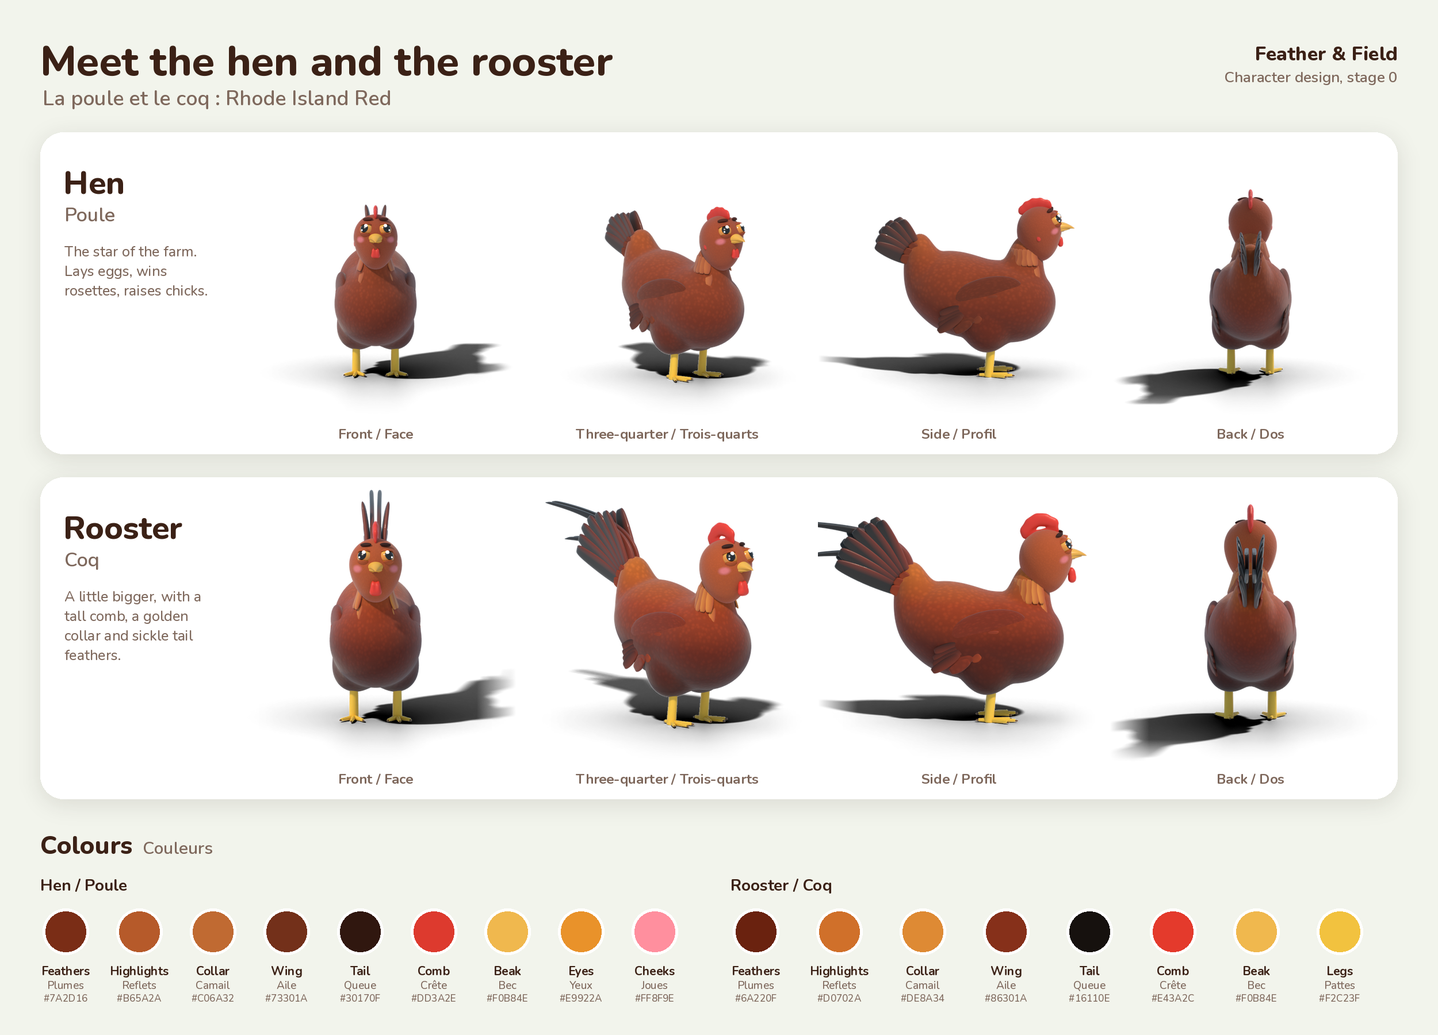
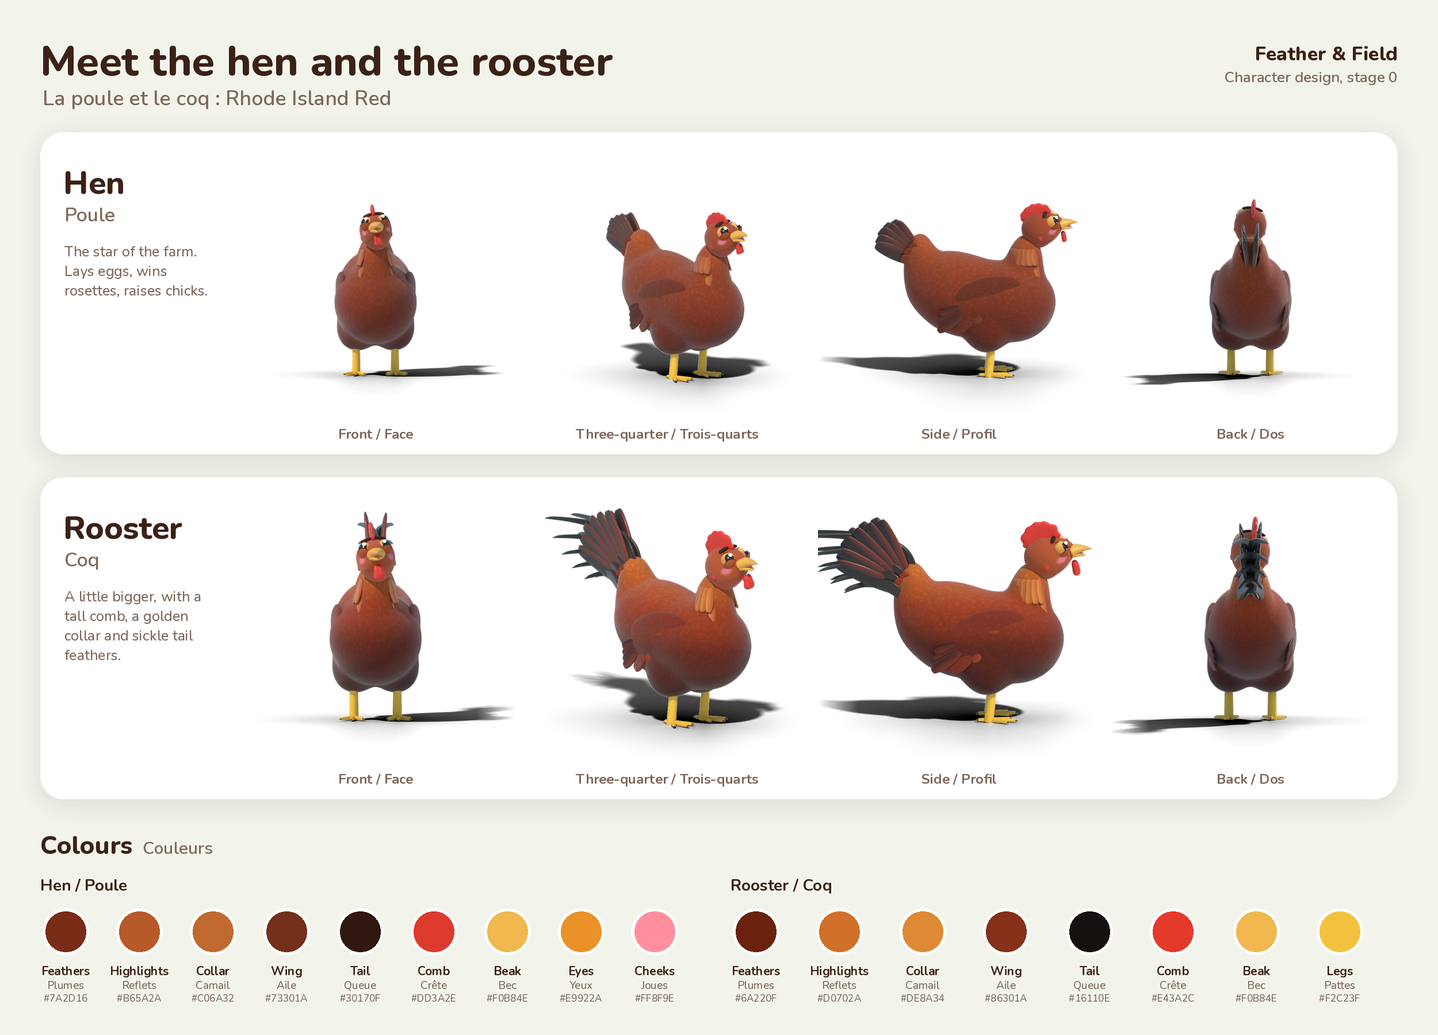
Character design v2: sculpted head, solid comb, sickle fountain, smiling and proud expressions
Claude-Session: https://claude.ai/code/session_01XWN3p1RfVs24ds11UTtWWk

diff --git a/stylized/character/hen_char.py b/stylized/character/hen_char.py
@@ -20,17 +20,17 @@ PAL = {
 # pupil = pupil size, eye = eye size, brow = brow slant (+ worried/sad, - cross), brow_h = brow height, beak = opening (radians),
 # blush 0..1, comb = flop 0..1, head = (roll, pitch, yaw) degrees (+pitch looks down), fluff = body puff, fx = little effect
 EXPR = {
-    'happy':     dict(up=0.55, lo=-0.62, tilt=-4, look=(0.05, 0.05), brow=0.05, beak=0.1, blush=0.6, head=(0, -4, 0)),
+    'happy':     dict(up=0.95, lo=-0.68, smile=0.5, tilt=0, look=(0.05, 0.05), pupil=1.0, brow=0.0, brow_h=0.55, beak=0.4, blush=0.7, head=(9, -10, 0), fx='notes'),
     'joyful':    dict(closed='happy', brow=0.15, brow_h=0.35, beak=0.55, blush=0.95, head=(-8, -16, 0), fx='sparkles'),
     'hungry':    dict(up=0.62, lo=-0.85, tilt=-12, look=(0.3, 0.62), brow=0.5, brow_h=0.35, beak=0.32, blush=0.0, head=(4, -14, -4), fx='thought'),
     'sleepy':    dict(closed='sleepy', brow=0.1, brow_h=-0.25, beak=0.0, blush=0.3, comb=0.45, head=(16, 10, 0), fx='zzz'),
     'surprised': dict(up=1.0, lo=-1.0, eye=1.15, pupil=0.72, brow=0.0, brow_h=0.85, beak=0.48, blush=0.0, head=(0, -12, 0), fluff=1.04, fx='exclaim'),
     'sad':       dict(up=0.3, lo=-0.75, tilt=-26, look=(0.1, -0.45), brow=0.7, brow_h=0.1, beak=0.0, blush=0.0, comb=0.85, head=(-6, 14, 0), fx='tear'),
     'grumpy':    dict(up=0.12, lo=-0.42, tilt=28, look=(0.15, 0.0), brow=-0.75, brow_h=-0.25, beak=0.06, blush=0.0, head=(0, 6, 8), fx='puffs'),
-    'mischief':  dict(up=0.42, lo=-0.6, tilt=10, look=(0.35, 0.1), wink=-1, brow_side={-1: (0.1, 0.15), 1: (-0.25, 0.8)}, beak=0.26, tongue_out=True,
+    'mischief':  dict(up=0.42, lo=-0.62, smile=0.3, tilt=10, look=(0.35, 0.1), wink=-1, brow_side={-1: (0.1, 0.15), 1: (-0.25, 0.8)}, beak=0.26, tongue_out=True,
                       blush=0.4, head=(10, -6, 10), fx='wink'),
-    'proud':     dict(up=0.34, lo=-0.5, tilt=-4, look=(0.25, -0.6), brow=-0.1, brow_h=0.35, beak=0.0, blush=0.6, head=(0, -14, 0), fluff=1.06, fx='chicks'),
-    'love':      dict(up=0.78, lo=-0.7, tilt=-6, look=(0.05, 0.1), hearts=True, brow=0.25, brow_h=0.3, beak=0.12, blush=1.0, head=(-12, -6, 0), fx='hearts'),
+    'proud':     dict(closed='content', brow=-0.1, brow_h=0.6, beak=0.0, blush=0.65, head=(-4, -24, 0), fluff=1.08, fx='chicks'),
+    'love':      dict(up=0.8, lo=-0.72, smile=0.32, tilt=-6, look=(0.05, 0.1), hearts=True, brow=0.25, brow_h=0.3, beak=0.12, blush=1.0, head=(-12, -6, 0), fx='hearts'),
 }
 # the hen's colours for the character sheet: (label EN, label FR, hex)
 SWATCHES = {
@@ -40,6 +40,7 @@ SWATCHES = {
               ('Tail', 'Queue', '#16110e'), ('Comb', 'Crête', '#e43a2c'), ('Beak', 'Bec', '#f0b84e'), ('Legs', 'Pattes', '#f2c23f')],
 }
 _M = {}
+_EYES = {}
 
 
 def M(key):
@@ -52,6 +53,7 @@ def M(key):
         wing=feather_mat('cf_wing_' + key, [(0, P['wing']), (1, P['wing'])], scale=14, depth=0.18),
         covert=mat('cf_covert_' + key, P['covert'], rough=0.65, spec=0.25, ramp=[(0, P['wing']), (1, P['covert'])]),
         prim=mat('cf_prim_' + key, P['prim'], rough=0.55, spec=0.3, ramp=[(0, P['prim']), (1, P['wing'])]),
+        sickle=mat('cf_sickle_' + key, P['tail'], rough=0.38, spec=0.45, coat=0.15, sheen=0.2, ramp=[(0.0, '#2b1a10'), (0.55, P['tail']), (1.0, '#1c2a1d')]),
         tail=mat('cf_tail_' + key, P['tail'], rough=0.45, spec=0.4, coat=0.15, sheen=0.25, ramp=[(0.0, P['wing']), (0.45, P['tail']), (1.0, P['tail'])]),
         comb=mat('cf_comb_' + key, P['comb'], rough=0.42, spec=0.35, sss=0.25),
         beak=mat('cf_beak_' + key, P['beak'], rough=0.35, spec=0.45, ramp=[(0, '#d99a35'), (1, P['beak'])]),
@@ -88,7 +90,7 @@ def _sock(node, ident):
     return [s for s in node.inputs if s.identifier == ident][0]
 
 
-def blush_face(base, amount, hr):
+def blush_face(base, amount, hr, centre=None):
     """Rosy cheeks painted straight onto the face (so they always sit on the skin): a soft pink oval under each eye."""
     m = base.copy(); m.name = base.name + '_blush'
     nt = m.node_tree; N, L = nt.nodes, nt.links; b = N['Principled BSDF']
@@ -98,7 +100,7 @@ def blush_face(base, amount, hr):
     ab = N.new('ShaderNodeMath'); ab.operation = 'ABSOLUTE'; L.new(sx.outputs['Y'], ab.inputs[0])
     cx = N.new('ShaderNodeCombineXYZ'); L.new(sx.outputs['X'], cx.inputs['X']); L.new(ab.outputs[0], cx.inputs['Y']); L.new(sx.outputs['Z'], cx.inputs['Z'])
     sub = N.new('ShaderNodeVectorMath'); sub.operation = 'SUBTRACT'; L.new(cx.outputs[0], sub.inputs[0])
-    sub.inputs[1].default_value = (0.041 * k, 0.043 * k, -0.012 * k)
+    sub.inputs[1].default_value = centre if centre else (0.041 * k, 0.043 * k, -0.012 * k)
     sc = N.new('ShaderNodeVectorMath'); sc.operation = 'MULTIPLY'; L.new(sub.outputs[0], sc.inputs[0])
     sc.inputs[1].default_value = (1 / (0.019 * k), 1 / (0.019 * k), 1 / (0.012 * k))
     ln = N.new('ShaderNodeVectorMath'); ln.operation = 'LENGTH'; L.new(sc.outputs[0], ln.inputs[0])
@@ -155,6 +157,48 @@ def heart_pupil(name, R, ic, d, half_w, m, parent, outline=None):
     sm = o.modifiers.new('solid', 'SOLIDIFY'); sm.thickness = 0.0005; sm.offset = 0.0
     o.parent = parent; o.matrix_basis = Matrix.Translation(ic) @ Matrix((Xd, Zd, d)).transposed().to_4x4()
     return o
+
+
+def lid_patch(name, R, edge, below, m, parent, matrix, thick=0.0012, nx=30, nz=14):
+    """An eyelid that hugs the eye and ends on a curve z = edge(x) (eye frame: x across, y out, z up).
+    below=True covers the eye from the bottom up to the curve (a lower lid pushed up by a smile)."""
+    me = bpy.data.meshes.new(name); bm = bmesh.new(); rows = []
+    for i in range(nx + 1):
+        x = (-1 + 2 * i / nx) * R * 0.999
+        zs = math.sqrt(max(0.0, R * R - x * x)); e = max(-zs, min(zs, edge(x)))
+        z0, z1 = (-zs, e) if below else (e, zs)
+        row = []
+        for j in range(nz + 1):
+            z = z0 + (z1 - z0) * j / nz
+            row.append(bm.verts.new((x, math.sqrt(max(0.0, R * R - x * x - z * z)), z)))
+        rows.append(row)
+    for i in range(nx):
+        for j in range(nz):
+            try: bm.faces.new((rows[i][j], rows[i + 1][j], rows[i + 1][j + 1], rows[i][j + 1]))
+            except ValueError: pass
+    bmesh.ops.remove_doubles(bm, verts=bm.verts[:], dist=R * 1e-4)
+    bm.normal_update()
+    if bm.faces and sum(f.normal.y for f in bm.faces) < 0: bmesh.ops.reverse_faces(bm, faces=bm.faces[:])
+    bm.to_mesh(me); bm.free()
+    o = link(bpy.data.objects.new(name, me)); setmat(o, m)
+    for p in o.data.polygons: p.use_smooth = True
+    sm = o.modifiers.new('solid', 'SOLIDIFY'); sm.thickness = thick; sm.offset = 1.0
+    o.parent = parent; o.matrix_basis = matrix
+    return o
+
+
+def surface_finder(obj):
+    """Finds points on a shape's outer surface (in its own space), so face parts sit right on a head of any shape."""
+    from mathutils.bvhtree import BVHTree
+    me = obj.data
+    bvh = BVHTree.FromPolygons([v.co.copy() for v in me.vertices], [tuple(p.vertices) for p in me.polygons])
+    def surf(dirn, origin=(0, 0, 0)):
+        d = Vector(dirn).normalized(); o = Vector(origin)
+        loc, nor, _, _ = bvh.ray_cast(o + d * 0.4, -d)
+        if loc is None: return o + d * 0.06, d
+        if nor.dot(d) < 0: nor = -nor
+        return loc, nor
+    return surf
 
 
 def paddle(name, length, width, thick, m, parent, matrix=None, loc=(0, 0, 0), rot=(0, 0, 0), curve=0.0, tip=0.85, sub=2, arch=0.0, cuts=2):
@@ -226,6 +270,31 @@ def beak_mesh(name, L, w, h, hook, m, parent, matrix):
     return o
 
 
+def head_mesh(name, hs, m, parent):
+    """The head, sculpted from a sphere: round at the back, a forehead that slopes down into the beak, a slimmer muzzle,
+    chubby cheeks under the eyes, a soft brow ridge over them, and a throat that runs down into the neck."""
+    me = bpy.data.meshes.new(name); bm = bmesh.new()
+    bmesh.ops.create_uvsphere(bm, u_segments=64, v_segments=40, radius=1.0)
+    def bump(v, c, amt, sig):
+        c = Vector(c).normalized(); return amt * math.exp(-((v - c).length_squared) / sig)
+    for v in bm.verts:
+        u = v.co.copy(); p = u.copy(); f = max(0.0, u.x)
+        p.x *= 1.0 + 0.3 * f * f                        # longer towards the beak
+        p.y *= 1.0 - 0.2 * f ** 2                       # slimmer muzzle
+        if u.z > 0: p.z *= 0.9 - 0.12 * f               # flatter crown, forehead sloping to the beak
+        else: p.z *= 1.0 + 0.25 * max(0.0, -u.x + 0.2) * (-u.z)   # throat drops into the neck
+        out = 0.0
+        for sd in (1, -1):
+            out += bump(u, (0.5, sd * 0.6, -0.5), 0.06, 0.07)        # cheeks
+        p += u * out
+        v.co = Vector((p.x * 0.053, p.y * 0.046, p.z * 0.052)) * hs
+    bm.to_mesh(me); bm.free()
+    o = link(bpy.data.objects.new(name, me)); setmat(o, m); subsurf(o, 1)
+    for poly in o.data.polygons: poly.use_smooth = True
+    o.parent = parent
+    return o
+
+
 def build(key='rir_h', loc=(0, 0, 0), yaw=0.0, expr='happy', seed=1):
     random.seed(seed)
     X = dict(EXPR['happy']); X.update(EXPR[expr] if isinstance(expr, str) else expr)
@@ -247,14 +316,19 @@ def build(key='rir_h', loc=(0, 0, 0), yaw=0.0, expr='happy', seed=1):
     roll, pitch, yw = X.get('head', (0, 0, 0))
     hd = empty('head', tuple(head), (math.radians(roll), math.radians(pitch - 8), math.radians(yw)), body_rig)
     hr = 0.062 * (1.08 if rooster else 1.0)
-    face_m = blush_face(Mt['face'], X['blush'], hr) if X.get('blush', 0) > 0.01 else Mt['face']
-    metaball_mesh('cf_head', [('BALL', (0, 0, 0), hr * K, None, 2.0), ('ELLIPSOID', (-0.012, 0, -0.035), 0.045 * K, (1, 0.95, 1.3), 2.0)],
-                  res=0.005, m=face_m, parent=hd)
+    hs = hr / 0.062
+    headobj = head_mesh('cf_head', hs, Mt['face'], hd)
+    surf = surface_finder(headobj)
+    if X.get('blush', 0) > 0.01:
+        bc, _ = surf((0.041, 0.043, -0.014))
+        headobj.data.materials[0] = blush_face(Mt['face'], X['blush'], hr, centre=(bc.x, abs(bc.y), bc.z))
     # ---- eyes
     R = 0.0195 * X.get('eye', 1.0)
     for s in (1, -1):
-        Ec = Vector((0.052, s * 0.029, 0.017)); n = Ec.normalized()
-        ic = n * (hr - 0.0085)                                     # iris centre, a little sunk into the head
+        Ec = Vector((0.05, s * 0.028, 0.014)); n = Ec.normalized()
+        sp_, _ = surf(n)
+        ic = sp_ - n * 0.0078                                      # iris centre, a little sunk into the head
+        _EYES[s] = ic.copy()
         up = Vector((0, 0, 1)); Zl = (up - n * up.dot(n)).normalized(); Xl = n.cross(Zl)
         inner = Xl * s                                            # towards the beak
         F = Matrix((Xl, n, Zl)).transposed().to_4x4()             # eye frame: x across, y out, z up
@@ -267,7 +341,8 @@ def build(key='rir_h', loc=(0, 0, 0), yaw=0.0, expr='happy', seed=1):
         else:
             pr = R * 0.6 * X.get('pupil', 1.0)
             heart_pupil('pupil', R, ic, d, pr, Mt['pupil'], hd, outline=[(x, y * 1.06) for x, y in circle_outline()])
-        for k_, (a, b_, r_) in enumerate(((0.42, 0.3, 0.24), (-0.32, -0.28, 0.11))):
+        shut = X.get('closed') or X.get('wink') == s
+        for k_, (a, b_, r_) in enumerate(((0.42, 0.3, 0.24), (-0.32, -0.28, 0.11)) if not shut else ()):
             sd = (n + Zl * a + inner * b_).normalized()
             sphere('shine', R * r_, tuple(ic + sd * R * 1.01), m=Mt['shine'], parent=hd, seg=10, rings=6)
         # eyelids (spherical caps) and, when shut, the closed-eye line
@@ -281,46 +356,64 @@ def build(key='rir_h', loc=(0, 0, 0), yaw=0.0, expr='happy', seed=1):
             pts = []
             for i in range(17):
                 u = -1 + 2 * i / 16; x = u * w
-                z = (0.32 * R * (1 - u * u) - 0.05 * R) if closed == 'happy' else (-0.06 * R - 0.1 * R * (1 - u * u))
+                z = {'happy': 0.32 * R * (1 - u * u) - 0.05 * R, 'content': 0.08 * R - 0.2 * R * (1 - u * u)}.get(closed, -0.06 * R - 0.1 * R * (1 - u * u))
                 y = math.sqrt(max(0.0, (Rl * 1.02) ** 2 - x * x - z * z))
                 pts.append((x, y, z))
             curve_line('lash', pts, 0.0017, Mt['lash'], hd, Fm)
         else:
             cap('lidup', Rl, mdir, X.get('up', 0.55), True, Mt['lid'], hd, Fm)
             lt = math.radians(X.get('tilt', 0) * -0.3)
-            cap('lidlo', Rl * 0.995, (math.sin(lt) * s, 0, math.cos(lt)), X.get('lo', -0.6), False, Mt['lid'], hd, Fm)
+            if X.get('smile'):                                      # lower lid pushed up into a smile: the eye becomes a happy crescent
+                lo_, sm_, R_l = X.get('lo', -0.7), X['smile'], Rl * 0.995
+                edge = lambda x: R_l * (lo_ + sm_ * (1 - (x / R_l) ** 2))
+                lid_patch('lidlo', R_l, edge, True, Mt['lid'], hd, Fm, thick=0.0008)
+                pts = []                                            # a fine dark line along the lid edge so the smile reads
+                for i in range(21):
+                    x = (-0.86 + 1.72 * i / 20) * R_l; z = edge(x); y2 = R_l ** 2 - x * x - z * z
+                    if y2 > 0: pts.append((x, math.sqrt(y2) + 0.0009, z))
+                if len(pts) > 2: curve_line('lidline', pts, 0.0007, Mt['lash'], hd, Fm)
+            else:
+                cap('lidlo', Rl * 0.995, (math.sin(lt) * s, 0, math.cos(lt)), X.get('lo', -0.6), False, Mt['lid'], hd, Fm)
         # brow: a small dark feather above the eye, slanted by mood
         bsl, bh = X.get('brow_side', {}).get(s, (X.get('brow', 0.0), X.get('brow_h', 0.0)))
-        bpos = (ic + Zl * (R * (1.55 + 0.45 * bh))).normalized() * (hr + 0.0035)
-        bm_ = basis(bpos, Xl, bpos.normalized())
-        ang = -bsl * math.radians(32) * s
+        bp_, bn_ = surf((ic + Zl * (R * (1.5 + 0.45 * bh))).normalized())
+        bpos = bp_ + bn_ * 0.003
+        bm_ = basis(bpos, Xl, bn_)
+        ang = (-bsl * math.radians(32) + math.radians(float(os.environ.get('BROW0', -16)))) * s
         rot = Matrix.Rotation(ang, 4, 'Y')
         b = sphere('brow', 1.0, (0, 0, 0), m=Mt['brow'], parent=hd, seg=16, rings=10)
         b.matrix_basis = bm_ @ rot @ Matrix.Diagonal((0.016, 0.0045, 0.0055, 1.0))
         # earlobe
-        sphere('lobe', 0.008, tuple(Vector((-0.008, s * 0.059, -0.02))), (0.8, 0.35, 1.1), m=Mt['comb'], parent=hd, seg=12, rings=8)
+        lp_, ln_ = surf((-0.01, s * 0.06, -0.022))
+        lb = sphere('lobe', 1.0, (0, 0, 0), m=Mt['comb'], parent=hd, seg=12, rings=8)
+        lb.matrix_basis = basis(lp_ - ln_ * 0.001, Vector((0, 0, 1)), ln_) @ Matrix.Diagonal((0.009 * hs, 0.003, 0.0068 * hs, 1.0))
     # ---- beak: upper and lower halves, hinged at the base; a tongue shows when it opens
     op = X.get('beak', 0.0)
-    base = Vector((hr * 0.86, 0, -0.008))
-    beak_mesh('beak_up', 0.042, 0.021, 0.0145, 0.36, Mt['beak'], hd, Matrix.Translation(base) @ Matrix.Rotation(-op * 0.3, 4, 'Y'))
+    fp_, _ = surf((1.0, 0, -0.14))
+    base = Vector((fp_.x - 0.008 * hs, 0, -0.008 * hs))
+    beak_mesh('beak_up', 0.046 * hs, 0.022 * hs, 0.0155 * hs, 0.36, Mt['beak'], hd, Matrix.Translation(base) @ Matrix.Rotation(-op * 0.3, 4, 'Y'))
     lower = Matrix.Translation(base + Vector((0, 0, -0.008))) @ Matrix.Rotation(op, 4, 'Y')
-    beak_mesh('beak_lo', 0.031, 0.019, 0.008, 0.05, Mt['beak'], hd, lower)
+    beak_mesh('beak_lo', 0.033 * hs, 0.019 * hs, 0.0085 * hs, 0.05, Mt['beak'], hd, lower)
     if op > 0.05:
         sphere('mouth', 0.012, tuple(base + Vector((0.006, 0, -0.008))), (1.2, 0.9, 0.7), m=Mt['mouth'], parent=hd, seg=14, rings=8)
         t = sphere('tongue', 1.0, (0, 0, 0), m=Mt['tongue'], parent=hd, seg=14, rings=8)
         if X.get('tongue_out'): t.matrix_basis = lower @ Matrix.Translation((0.03, 0, 0.0045)) @ Matrix.Rotation(-0.25, 4, 'Y') @ Matrix.Diagonal((0.017, 0.0075, 0.0034, 1.0))
         else: t.matrix_basis = lower @ Matrix.Translation((0.016, 0, 0.004)) @ Matrix.Diagonal((0.011, 0.007, 0.003, 1.0))
     # ---- comb (flops sideways when sad or sleepy) and wattles
-    cs = 1.55 if rooster else 1.0
-    cb = empty('combbase', (0.0, 0, hr * 0.78), (math.radians(X.get('comb', 0.0) * 38), 0, 0), hd)
-    pts = [(0.034, 0.016), (0.016, 0.024), (-0.003, 0.027), (-0.022, 0.022), (-0.038, 0.013)]
-    mb = metaball_mesh('comb', [('BALL', (x_, 0, z_ * cs), (0.0125 if i in (1, 2, 3) else 0.011) * K * (cs ** 0.6), None, 2.0) for i, (x_, z_) in enumerate(pts)]
-                       + [('ELLIPSOID', (0.0, 0, 0.004), 0.02 * K, (2.3, 0.55, 0.6), 2.0)], res=0.0035, m=Mt['comb'], parent=cb)
+    cs = 1.5 if rooster else 1.0
+    tp_, _ = surf((0.12, 0, 1.0))
+    cb = empty('combbase', (tp_.x - 0.004, 0, tp_.z - 0.009 * hs), (math.radians(X.get('comb', 0.0) * 38), 0, 0), hd)
+    pts = [(0.03, 0.015), (0.015, 0.024), (-0.002, 0.027), (-0.019, 0.023), (-0.033, 0.014)]
+    ce = [('BALL', (x_ * cs ** 0.35, 0, z_ * cs), (0.0105 if i in (1, 2, 3) else 0.0092) * K * cs ** 0.45, None, 2.0) for i, (x_, z_) in enumerate(pts)]
+    ce += [('ELLIPSOID', (-0.001, 0, 0.009 * cs), 0.019 * K, (2.0 * cs ** 0.3, 0.6, 0.8 * cs ** 0.9), 2.0),    # the blade itself
+           ('ELLIPSOID', (0.0, 0, 0.0), 0.02 * K, (2.1 * cs ** 0.3, 0.7, 0.55), 2.0)]                         # rooted in the head
+    mb = metaball_mesh('comb', ce, res=0.0035, m=Mt['comb'], parent=cb)
     mb.scale = (1, 0.5, 1)
     wl = []                                         # two long drops hanging under the beak
+    wx = base.x - 0.002
     for s in (1, -1):
-        wl += [('ELLIPSOID', (hr * 0.8, s * 0.0062, -0.047 * cs ** 0.5), 0.0095 * K * cs ** 0.7, (0.75, 0.5, 1.15), 2.0),
-               ('BALL', (hr * 0.8 - 0.002, s * 0.0058, -0.058 * cs ** 0.5), 0.0072 * K * cs ** 0.7, None, 2.0)]
+        wl += [('ELLIPSOID', (wx, s * 0.0062, -0.038 * cs ** 0.5 - 0.004), 0.0095 * K * cs ** 0.7, (0.75, 0.5, 1.15), 2.0),
+               ('BALL', (wx - 0.002, s * 0.0058, -0.05 * cs ** 0.5 - 0.004), 0.0072 * K * cs ** 0.7, None, 2.0)]
     metaball_mesh('wattles', wl, res=0.0035, m=Mt['comb'], parent=hd)
     # ---- neck collar: golden hackle feathers falling over the shoulders
     for row in range(3):                       # three overlapping rows, lying close over the neck and shoulders
@@ -346,18 +439,19 @@ def build(key='rir_h', loc=(0, 0, 0), yaw=0.0, expr='happy', seed=1):
     n = 11 if rooster else 9
     for i in range(n):
         side = 1 if i % 2 else -1
-        e = math.radians(24 + 44 * i / (n - 1))
+        e = math.radians(24 + (44 if rooster else 38) * i / (n - 1))
         L_ = (0.23 if rooster else 0.15) * (1.0 - 0.15 * abs(i / (n - 1) - 0.5))
-        paddle('tailf', L_, 0.05, 0.011, Mt['tail'], tb, loc=(0.01, side * 0.016, -0.01), rot=(math.radians(side * 6), e - math.pi, math.radians(side * 3)), curve=side * 0.1, tip=0.95)
+        paddle('tailf', L_, 0.05, 0.011, Mt['tail'], tb, loc=(0.01, side * 0.012, -0.01), rot=(math.radians(side * 6), e - math.pi, math.radians(side * 2)), curve=side * 0.08, tip=0.95)
     for i in range(6):
         side = 1 if i % 2 else -1
         e = math.radians(20 + 40 * i / 5)
         paddle('tailcov', 0.09, 0.04, 0.01, Mt['covert'], tb, loc=(0.04, side * 0.028, -0.02), rot=(math.radians(side * 10), e - math.pi, math.radians(side * 9)), curve=side * 0.12, tip=0.95)
-    if rooster:                                     # long sickle feathers that rise and arch over the tail
+    if rooster:                                     # a fountain of glossy sickle feathers that rise and arch over the tail
         for sd in (1, -1):
-            for (L_, E_, A_, dz) in ((0.22, 78, 1.3, 0.02), (0.175, 68, 1.15, 0.005)):
-                paddle('sickle', L_, 0.045, 0.01, Mt['tail'], tb, loc=(0.01, sd * 0.009, dz), rot=(0.0, math.radians(E_) - math.pi, math.radians(-sd * 1.5)),
-                       curve=-sd * 0.03, arch=A_, cuts=10, tip=0.95)
+            for j, (L_, E_, A_, dz, dy, rz) in enumerate(((0.2, 72, 1.25, 0.03, 0.006, 2), (0.18, 66, 1.18, 0.018, 0.013, 6), (0.16, 60, 1.1, 0.006, 0.02, 10),
+                                                         (0.14, 54, 1.0, -0.006, 0.026, 14), (0.115, 48, 0.9, -0.016, 0.031, 18))):
+                paddle('sickle', L_, 0.05 - j * 0.003, 0.01, Mt['sickle'], tb, loc=(0.015 - j * 0.007, sd * dy, dz),
+                       rot=(math.radians(sd * 12), math.radians(E_) - math.pi, math.radians(sd * rz * 0.7)), curve=sd * 0.05, arch=A_, cuts=10, tip=0.95)
     # ---- legs and feet with little nails
     for s in (1, -1):
         lg = empty('leg', (0.01, s * 0.055, 0), (0, 0, 0), root)
@@ -449,7 +543,7 @@ def effects(kind, H, cam, eye=None):
             at(heart(s, m), x, y, 0.02, sp)
     elif kind == 'zzz':
         m = _fxmat('zzz', '#6f84dc', 0.5)
-        for (x, y, s, sp) in ((0.062, 0.062, 0.022, 8), (0.088, 0.093, 0.03, -6), (0.118, 0.13, 0.04, 10)):
+        for (x, y, s, sp) in ((0.058, 0.05, 0.02, 8), (0.082, 0.077, 0.027, -6), (0.11, 0.108, 0.035, 10)):
             at(text_obj('Z', s, m), x, y, 0.02, sp)
     elif kind == 'wink':
         m = _fxmat('spark', '#ffc93a', 2.2)
@@ -470,6 +564,12 @@ def effects(kind, H, cam, eye=None):
             o = sphere('chickbeak', 1.0, m=mo, seg=12, rings=8); at(o, *C(0.002, 0.024, 0.0195), 0, (0.0042 * sc, 0.0028 * sc, 0.004 * sc))
             for tx in (-0.003, 0.0, 0.003):
                 o = sphere('chicktuft', 1.0, m=my, seg=8, rings=6); at(o, *C(0.002 + tx, 0.043, 0.003), tx * 4000, (0.0022 * sc, 0.006 * sc, 0.0022 * sc))
+    elif kind == 'notes':                                    # humming a happy little tune
+        m = _fxmat('note', '#2f9a52', 0.35)
+        for (x, y, sc, sp) in ((0.078, 0.06, 1.0, -12), (0.112, 0.1, 0.78, 10)):
+            o = sphere('notehead', 1.0, m=m, seg=20, rings=10); at(o, x, y, 0.02, sp - 25, (0.0085 * sc, 0.0062 * sc, 0.004 * sc))
+            c = curve_line('notestem', [(0.0078 * sc, 0.0, 0), (0.0078 * sc, 0.034 * sc, 0)], 0.0016 * sc, m, None, Matrix.Identity(4)); at(c, x, y, 0.02, sp)
+            c = curve_line('noteflag', [(0.0078 * sc, 0.034 * sc, 0), (0.016 * sc, 0.026 * sc, 0), (0.019 * sc, 0.016 * sc, 0)], 0.0016 * sc, m, None, Matrix.Identity(4)); at(c, x, y, 0.02, sp)
     elif kind == 'tear':
         m = _fxmat('tear', '#7ccaf8', 0.35)
         o = drop(0.0075, m)
@@ -511,8 +611,7 @@ def effects(kind, H, cam, eye=None):
 
 
 def eye_world(hd, hr, s=-1):
-    Ec = Vector((0.052, s * 0.029, 0.017)).normalized() * (hr - 0.0085)
-    return hd.matrix_world @ Ec
+    return hd.matrix_world @ _EYES[s]
 
 
 def shadow_catcher(size=3.0):
@@ -533,13 +632,24 @@ if __name__ == '__main__':
         bpy.context.view_layer.update()
         H = hd.matrix_world.translation.copy()
         lighting(scn, sun_dir=(0.55, -0.45, 0.75), sun=3.6)
-        cam = camera(scn, tuple(H + Vector((0.52, -0.25, 0.085))), tuple(H), lens=72)
+        cam = camera(scn, tuple(H + Vector((0.52, -0.25, 0.085))), tuple(H), lens=float(os.environ.get("LENS", 84)))
         bpy.context.view_layer.update()
         Rc = cam.matrix_world.to_3x3()
-        cam.location = cam.location + Rc.col[0] * 0.022 + Rc.col[1] * 0.03     # head a little left and low: room for the effect
+        cam.location = cam.location + Rc.col[0] * 0.016 + Rc.col[1] * 0.016     # head a little left and low: room for the effect
         bpy.context.view_layer.update()
         if root['fx']: effects(root['fx'], H, cam, eye_world(hd, root['hr']))
         render(scn, 'face_' + which, R_, R_, samples, transparent=True)
+    elif mode == 'headtest':                                 # quick look at the head from several sides
+        scn = reset()
+        root, hd = build(key, (0, 0, 0), 0.0, os.environ.get('EXPR', 'happy'))
+        bpy.context.view_layer.update()
+        H = hd.matrix_world.translation.copy()
+        lighting(scn, sun_dir=(0.55, -0.45, 0.75), sun=3.6)
+        cam = None
+        for vname, (dx, dy, dz) in (('front', (1, 0, 0.1)), ('34', (0.75, -0.62, 0.12)), ('side', (0, -1, 0.06)), ('back34', (-0.6, -0.75, 0.25))):
+            if cam: bpy.data.objects.remove(cam)
+            cam = camera(scn, tuple(H + Vector((dx, dy, dz)) * 3), tuple(H + Vector((0, 0, 0.01))), ortho=float(os.environ.get('ORTHO', 0.24)))
+            render(scn, 'ht_%s_%s' % (key, vname), R_, R_, samples, transparent=True)
     else:                                                    # turnaround: front, three-quarter, side, back (orthographic)
         views = {'front': (1, 0), '34': (0.74, -0.67), 'side': (0, -1), 'back': (-1, 0)}
         for vname in os.environ.get('VIEWS', 'front,34,side,back').split(','):
@@ -549,5 +659,5 @@ if __name__ == '__main__':
             lighting(scn, sun_dir=(0.5, -0.6, 0.85), sun=3.4)
             dx, dy = views[vname]
             tgt = Vector((-0.08, 0, 0.3)) if vname in ('side', '34') else Vector((0.0, 0, 0.3))
-            camera(scn, tuple(tgt + Vector((dx, dy, 0.16)) * 6), tuple(tgt), ortho=float(os.environ.get('ORTHO', 1.0)))
+            camera(scn, tuple(tgt + Vector((dx, dy, 0.16 if vname in ('34', 'side') else 0.05)) * 6), tuple(tgt), ortho=float(os.environ.get('ORTHO', 1.0)))
             render(scn, 'turn_%s_%s' % (key, vname), R_, R_, samples, transparent=True)
